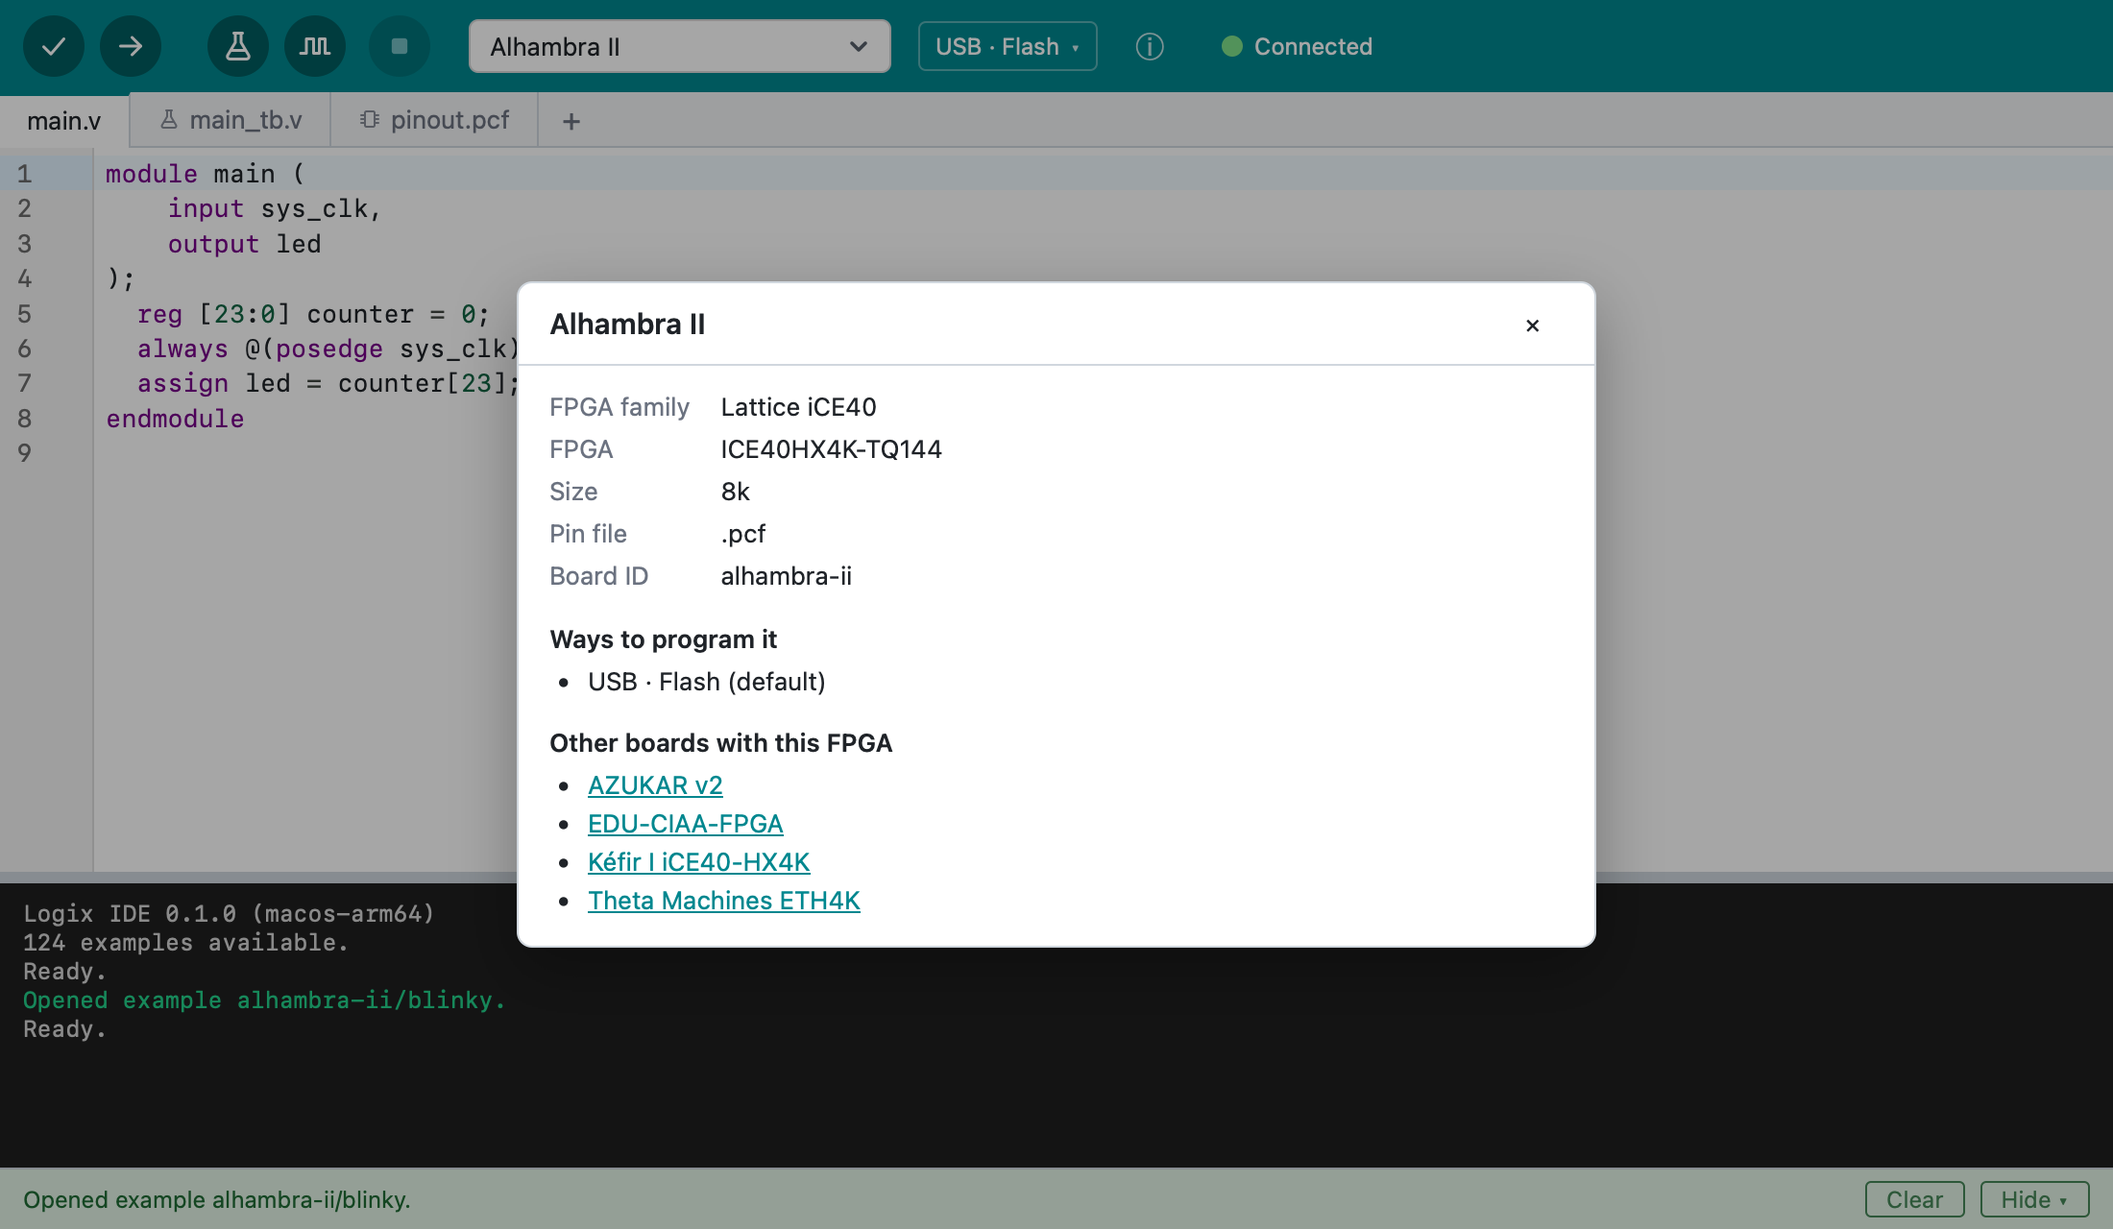
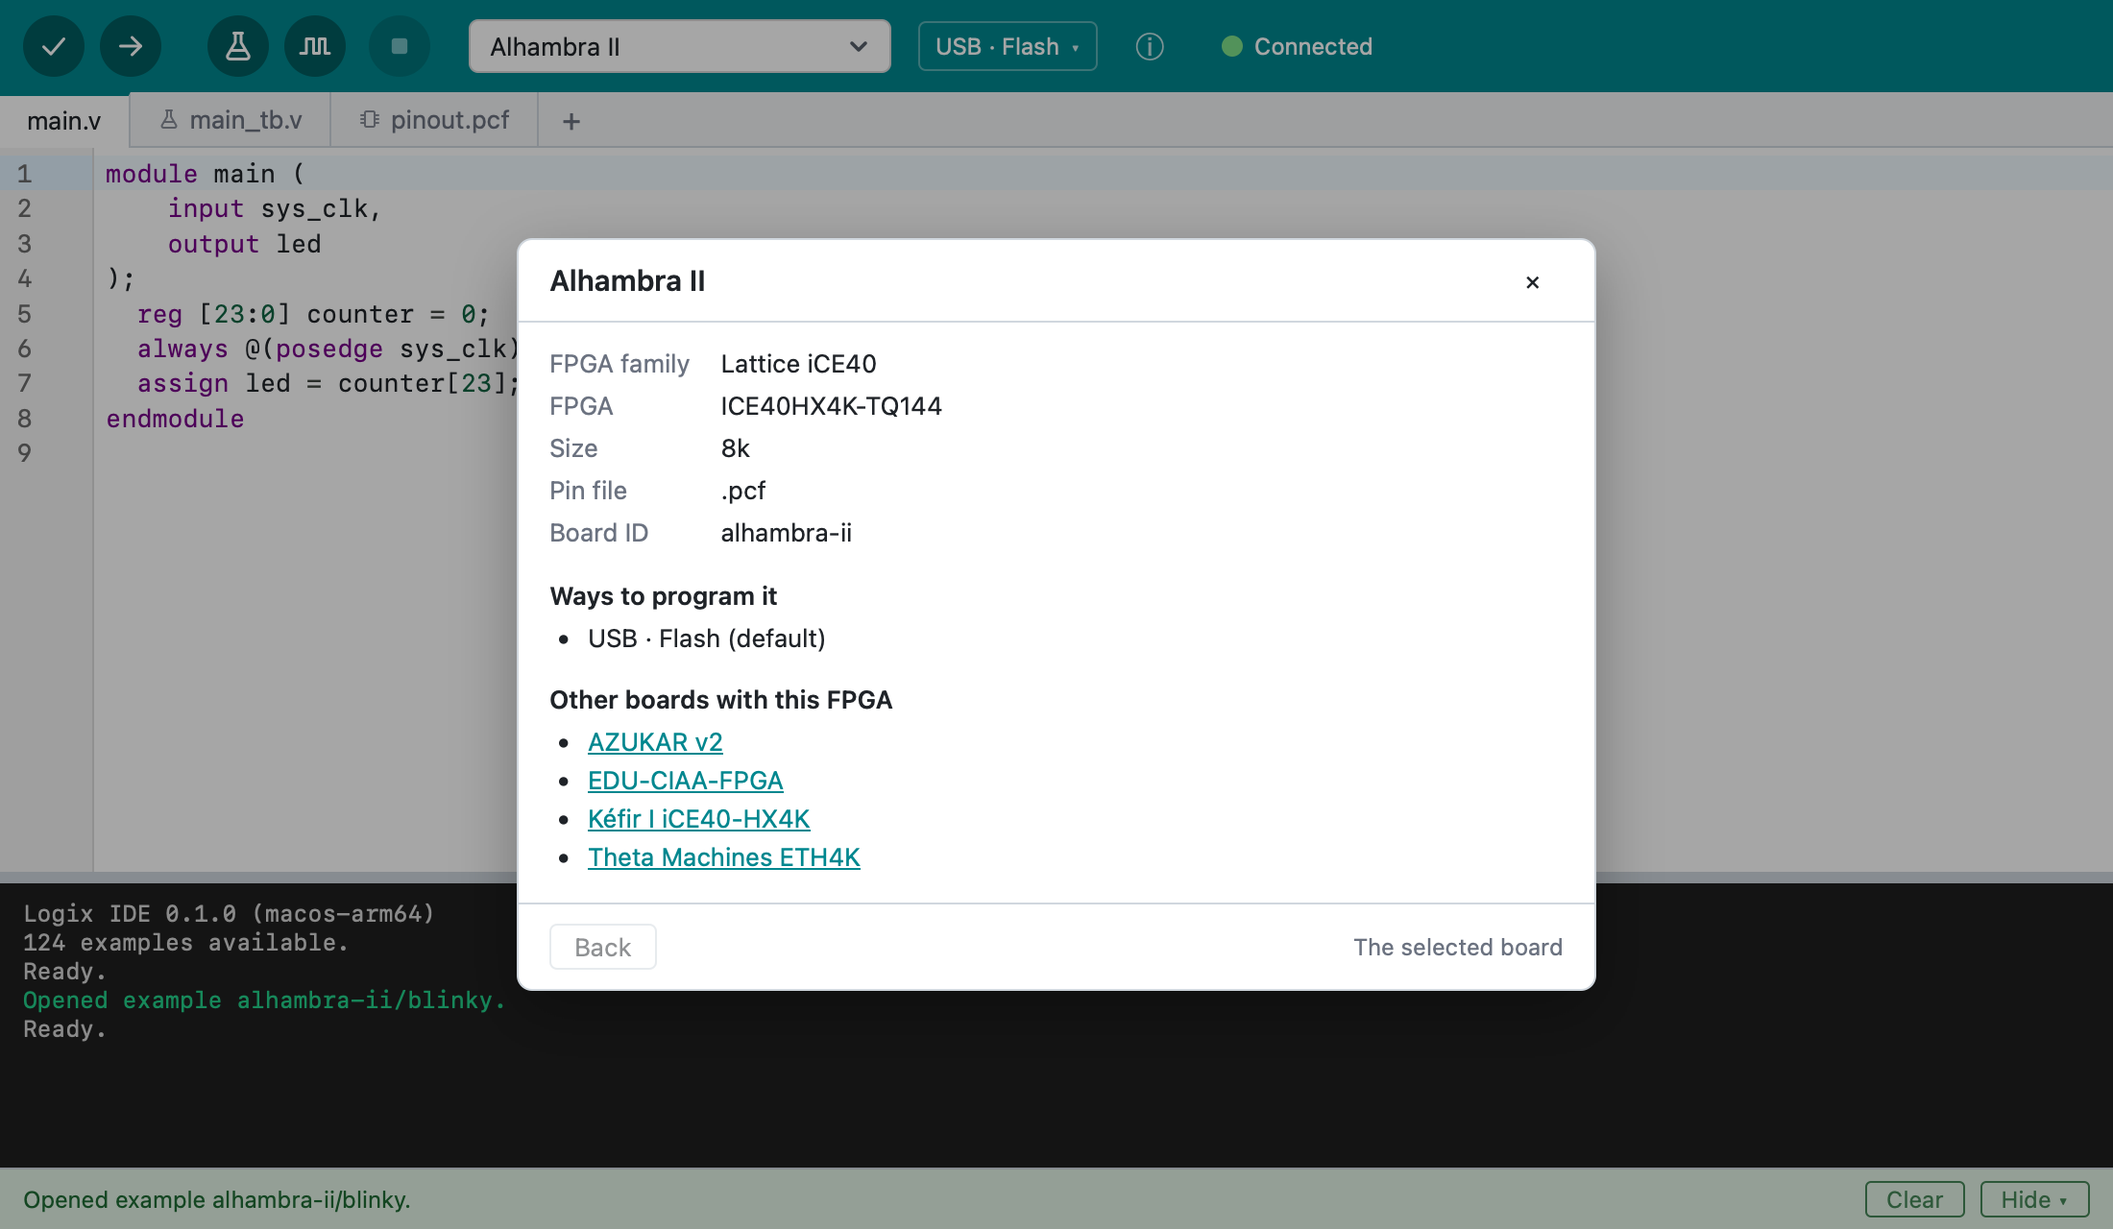
Board Info: browse boards with the same FPGA, Back and Select
A board in "Other boards with this FPGA" now shows its own info in the
same window instead of selecting it (the user's request). Back returns to
the board shown before; Select This Board selects the board shown.

Changed region(s): [[0.2473, 0.1875, 0.7727, 0.8125]]

diff --git a/ui/src/lib/BoardInfoDialog.svelte b/ui/src/lib/BoardInfoDialog.svelte
@@ -1,10 +1,12 @@
 <!--
   Tools > Board Info… (and the ⓘ next to the board): a board's FPGA, its pin
   file kind, the ways it can be programmed, and the other boards with the
-  same FPGA, which the user can select, such as to find a board like theirs.
-  Everything comes from Logix Engine's catalog (`get_catalog`).
+  same FPGA, such as to find a board like the user's. A board in that list
+  shows its own info (Back returns), and Select This Board picks the board
+  shown. Everything comes from Logix Engine's catalog (`get_catalog`).
 -->
 <script lang="ts">
+  import { untrack } from "svelte";
   import type { Board } from "./backend";
   import { sameFpgaBoards } from "./boards";
   import { summary } from "./variants";
@@ -16,18 +18,31 @@
     onPick,
     onClose,
   }: {
-    /** The board to describe. */
+    /** The board to describe first. */
     board: Board;
     /** Every board offered, for the boards with the same FPGA. */
     boards: Board[];
     /** The toolbar's board, marked in the lists. */
     selected: string | null;
-    /** A board's name was clicked: select that board. */
+    /** Select This Board: select the board shown. */
     onPick: (id: string) => void;
     onClose: () => void;
   } = $props();
 
-  const same = $derived(sameFpgaBoards(boards, board));
+  /** The boards shown, the current one last (Back goes to the one before). */
+  let shownIds = $state<string[]>(untrack(() => [board.id]));
+  const current = $derived(
+    boards.find((b) => b.id === shownIds[shownIds.length - 1]) ?? board,
+  );
+  const same = $derived(sameFpgaBoards(boards, current));
+
+  function show(id: string) {
+    shownIds = [...shownIds, id];
+  }
+
+  function back() {
+    if (shownIds.length > 1) shownIds = shownIds.slice(0, -1);
+  }
 
   function onKey(e: KeyboardEvent) {
     if (e.key === "Escape") {
@@ -51,35 +66,35 @@
     onclick={(e) => e.stopPropagation()}
   >
     <header>
-      <h2>{board.description}</h2>
+      <h2>{current.description}</h2>
       <span class="spacer"></span>
       <button class="close" title="Close" onclick={onClose}>✕</button>
     </header>
     <div class="body">
-      {#if board.custom}
+      {#if current.custom}
         <p class="muted">One of this project's own boards, from custom-boards.json.</p>
       {/if}
       <table>
         <tbody>
-          <tr><th scope="row">FPGA family</th><td>{board.archLabel}</td></tr>
-          {#if board.fpga}
-            <tr><th scope="row">FPGA</th><td>{board.fpga.partNumber}</td></tr>
-            {#if board.fpga.size}
-              <tr><th scope="row">Size</th><td>{board.fpga.size}</td></tr>
+          <tr><th scope="row">FPGA family</th><td>{current.archLabel}</td></tr>
+          {#if current.fpga}
+            <tr><th scope="row">FPGA</th><td>{current.fpga.partNumber}</td></tr>
+            {#if current.fpga.size}
+              <tr><th scope="row">Size</th><td>{current.fpga.size}</td></tr>
             {/if}
           {/if}
-          {#if board.pinExtension}
-            <tr><th scope="row">Pin file</th><td>.{board.pinExtension}</td></tr>
+          {#if current.pinExtension}
+            <tr><th scope="row">Pin file</th><td>.{current.pinExtension}</td></tr>
           {/if}
-          <tr><th scope="row">Board ID</th><td>{board.id}</td></tr>
+          <tr><th scope="row">Board ID</th><td>{current.id}</td></tr>
         </tbody>
       </table>
 
       <h3>Ways to program it</h3>
       <ul>
-        {#each board.configurations as c, i (i)}
+        {#each current.configurations as c, i (i)}
           <li>
-            {summary(board, c.when)}{i === 0 ? " (default)" : ""}{c.tested ? "" : " (not yet tried on a board)"}
+            {summary(current, c.when)}{i === 0 ? " (default)" : ""}{c.tested ? "" : " (not yet tried on a board)"}
             {#if c.userNotes}<span class="muted note">{c.userNotes}</span>{/if}
           </li>
         {/each}
@@ -92,7 +107,7 @@
         <ul>
           {#each same as b (b.id)}
             <li>
-              <button class="board-pick" title="Select the {b.description}" onclick={() => onPick(b.id)}
+              <button class="board-pick" title="Show the {b.description}" onclick={() => show(b.id)}
                 >{b.description}</button
               >{#if b.id === selected}{" "}<span class="muted">(selected)</span>{/if}
             </li>
@@ -100,6 +115,15 @@
         </ul>
       {/if}
     </div>
+    <footer>
+      <button onclick={back} disabled={shownIds.length < 2} title="The board shown before">Back</button>
+      <span class="spacer"></span>
+      {#if current.id === selected}
+        <span class="muted">The selected board</span>
+      {:else}
+        <button class="primary" onclick={() => onPick(current.id)}>Select This Board</button>
+      {/if}
+    </footer>
   </div>
 </div>
 
@@ -198,6 +222,22 @@
   }
   .note {
     display: block;
+  }
+  footer {
+    display: flex;
+    align-items: center;
+    gap: 8px;
+    padding: 10px 16px;
+    border-top: 1px solid var(--border);
+  }
+  .primary {
+    background: var(--accent, #00796b);
+    border-color: var(--accent, #00796b);
+    color: #fff;
+  }
+  button:disabled {
+    opacity: 0.5;
+    cursor: default;
   }
   .muted {
     color: var(--muted);

diff --git a/ui/e2e/app.e2e.ts b/ui/e2e/app.e2e.ts
@@ -880,8 +880,19 @@ test("Board Info shows the board's FPGA and the boards with the same FPGA", asyn
   await expect(info).toBeHidden();
   await menu(page, "board-info");
   await expect(info).toBeVisible();
-  // A board with the same FPGA selects it, as the board picker does.
+  await expect(info).toContainText("The selected board");
+  const back = info.getByRole("button", { name: "Back" });
+  await expect(back).toBeDisabled();
+  // A board with the same FPGA shows its own info; Back returns.
   await info.getByRole("button", { name: /^Kéfir I/ }).click();
+  await expect(info.getByRole("heading", { level: 2 })).toHaveText(/Kéfir I/);
+  await expect(info.getByRole("button", { name: "Alhambra II" })).toBeVisible();
+  await back.click();
+  await expect(info.getByRole("heading", { level: 2 })).toHaveText("Alhambra II");
+  await expect(back).toBeDisabled();
+  // Select This Board picks the board shown, as the board picker does.
+  await info.getByRole("button", { name: /^Kéfir I/ }).click();
+  await info.getByRole("button", { name: "Select This Board" }).click();
   await expect(info).toBeHidden();
   await page.getByRole("dialog").getByRole("button", { name: "Keep Current Files" }).click();
   await expect(boardButton(page)).toHaveText(/Kéfir I/);

diff --git a/CLAUDE.md b/CLAUDE.md
@@ -146,7 +146,7 @@ Don't run `npm run tauri build` locally; installers come from the GitHub workflo
 - **Upload's device** (the user's decision: the engine never picks a device, the host does): after the build, Upload calls `list_devices` with the build folder, which lists only the devices that fit the build's board and variant, strongest first (`build_match`). One: Upload programs it with `program_board`'s required `device` (no question asked, as before). None: a `connect_board` failure, or the unreachable device's fix (`pick_device` in `engine/task.rs`, unit-tested). Several: the outcome has action `select_device` and the candidates in `devices`; the status says "Choose the device to upload to." (info, not an error), and `ui/src/lib/DevicePicker.svelte` ("Upload to which device?", each device with its serial number and the match level in words, `matchLabel`: "Strong match", "Possible match", "Weak match") reruns Upload with the chosen `device` (the build is then up to date). The fake backend's `__fake.uploadDevices` sets the devices that fit (one Alhambra II by default) and `__fake.uploadedDevice` records the one used.
 - **Connected boards** (as in Arduino IDE 2's board selector; the status next to the picker says "Connected" for any fit, erring to the connected side since Upload checks (the user's decisions, 2026-11-05: "Possibly connected" read strangely right after programming the board), and its tooltip says only that a connected device may be the board (no cause); Tools > Connected Devices tells devices and their likely boards apart. The board picker has no groups from connected devices (the user's decision, 2026-11-06: the "Connected" groups were guesses and confusing; the picker has only "Recently used" and the architecture groups). "Not connected" stays: no device fits, which is what Upload sees): while the window has focus and nothing runs, the UI polls `connected_devices` every 3 s (and on focus). It runs the engine's `list_devices` once and reads its matches (`connected_devices` in `engine/devices.rs`): each connected device that fits a board (`id`, `name`, `serial`), with every board it may be, so the selected board's "Connected" label agrees with Upload, each with its `level`. Tools > Connected Devices counts weak boards; the engine decides which matches are weak, such as a USB chip that dozens of boards share (it moved there from the IDE's own `NAMED` and `MAX_GENERIC_MATCHES` rules). (Before, unsuggested boards were left out entirely: an Arty, "Digilent USB Device", matched the Basys3's product pattern, so it showed "Not connected" while Upload found it.) "Connected" / "Not connected" next to the board picker tells whether the selected board is plugged in; clicking it opens Tools > Connected Devices (the user's idea: "what is connected?" is the next question; a button styled as the label, its tooltip says so). The board is never switched automatically. Scans pause during tasks since Upload uses the device. The fake backend's `__fake.connected` sets the connected devices.
 - **The project's own boards** (`custom-boards.json`; the user's decisions, 2026-11-06: a separate JSON file, one file for zero, one or more boards, a map from board ID to definition like the engine's catalog, sent to the engine even when it has errors, which the engine reports at line and column like yosys errors; the engine's `docs/tool-api.md`, Board specification): board definitions in Logix Engine's custom board format, by board ID (each with `description`, `fpga_id` or `fpga`, and `variants` with their programmer, `args` and `usb` filter), written by the user or an AI agent; no editing UI. It's a project file shown as a tab (`project::CUSTOM_BOARDS_FILE`, `is_editable`; New File accepts that exact name and starts it as `{ }`; tab role `boards`), highlighted as JSON (the legacy-modes `json` mode in `Editor.svelte`), and Auto Format pretty-prints it in the UI (`formatJson`, two-space indents; the menu's `formattable` covers it); unsaved edits count, as for sources. **The IDE never parses it**: the engine reads it (`custom_boards_file`, an absolute path) and reports each problem (invalid JSON, a wrong or unknown field, a bad board ID, FPGA or variant field) as a diagnostic at line and column, which the IDE marks like build errors. Tasks send the copy in the prepared build folder (`run_task`, so problems are named `custom-boards.json`); the board list (`project_boards`, asked again 400 ms after the text stops changing), `connected_devices` and `scan_devices` get the editor's text (`customBoardsText`, null without the file), which the backend writes to a scratch file (`scratch_boards_file`: `~/.logix/boards/<hash of the text>/custom-boards.json`, the 4 newest kept, so concurrent calls never see each other's text) and maps the engine's diagnostics back to `custom-boards.json` (`BoardsProblem::from_error`). Its boards are listed first in their architecture's group in the board picker (`withProjectBoards` in `boards.ts`; one with a catalog board's ID replaces it, as in the engine); picking one never offers examples and isn't remembered as the last board (new projects don't have the file). A file with problems shows a banner with the engine's message (`custom-boards-error`, with Show File when another tab is open) and markers in its tab (`markCustomBoards`, replacing only that file's markers), and its boards are left out until it's fixed; device scans then leave its boards out; a task for one of its boards fails with the same problems marked (`boards_problem_outcome`), and a task for a catalog board gets them from the engine. The engine decides what a changed board means for builds (only the FPGA's build settings count).
-- **Board Info** (Tools > Board Info…, enabled when the toolbar has a known board, `MenuState.board`, and the ⓘ next to the board; the user's decision, 2026-11-06: an info window, with only a hover hint in the picker): `ui/src/lib/BoardInfoDialog.svelte` shows the board's FPGA family, part number and size (`Board.fpga`: `id`, `partNumber`, `size`, from the engine's `get_catalog` fpgas, or a custom board's own `fpga`; `engine/catalog.rs`), its pin file kind and ID, the ways to program it (each configuration's `summary`, the default first, "(not yet tried on a board)" when untested, with its notes), and the other boards with the same FPGA ID (`sameFpgaBoards` in `boards.ts`) as links that select the board, as the board picker does. Screenshot `board-info.png` (`docs.shots.ts`).
+- **Board Info** (Tools > Board Info…, enabled when the toolbar has a known board, `MenuState.board`, and the ⓘ next to the board; the user's decision, 2026-11-06: an info window, with only a hover hint in the picker): `ui/src/lib/BoardInfoDialog.svelte` shows the board's FPGA family, part number and size (`Board.fpga`: `id`, `partNumber`, `size`, from the engine's `get_catalog` fpgas, or a custom board's own `fpga`; `engine/catalog.rs`), its pin file kind and ID, the ways to program it (each configuration's `summary`, the default first, "(not yet tried on a board)" when untested, with its notes), and the other boards with the same FPGA ID (`sameFpgaBoards` in `boards.ts`) as links that show that board's info in the same window (the user's request: browse, then choose), with Back (the boards shown, `shownIds`) and Select This Board, which selects the board shown as the board picker does and closes the window ("The selected board" instead when it already is). Screenshot `board-info.png` (`docs.shots.ts`).
 - **Board variants** (the model is in the engine's `docs/requirements.md`, Boards and board variants): the engine's board definitions list `variants`, each with an `id` (such as `usb-ram`), its `connection` and `memory`, and how to program it; requests name one by ID (`board_variant`). The IDE keeps its own picker model (dimension values per project, possibly partial, `{}` for the default): `engine/catalog.rs` reads the engine's variants into `Configuration`s (`when` from `connection` and `memory`, `id` kept for the engine only), `variant_id` turns the project's choice into the ID sent to lint, build, test and simulate (the first variant with all the chosen values), and `variant_values` turns the IDs `list_devices` reports back into values for the device groups. every board has the engine's two standard dimensions, `connection` (`usb`, `bootloader`, an adapter such as `ft232h`, or `unspecified`) and `memory` (`flash`, `ram`); every board shows all its dimensions, even one with a single value (the user's decision: hiding single values was too opaque, e.g. that the Arty uploaded to RAM only). A board is its name; boards that differ only by USB adapter (FT2232H, FT232H, CMSIS-DAP, USB-Blaster: "adapter", not openFPGALoader's "cable", in the labels) or flash/RAM are one board with several variants, shown through the board's `dimensions` (`connection`, `memory`, each with labels and optional `help`); the first variant is the default ( flash wherever the board has it, the user's decision, so an upload stays at power-off unless RAM is picked; each with `tested` and optional `user_notes`). Each FPGA size is its own board (pins can differ), and all variants of a board use the same pin file, so examples (per board) and projects work with every variant. 32 boards have a choice today: iCESugar-Pro and ColorLight i5 (memory); the boards whose original commands upload to RAM, most Xilinx and ECP5 boards and the Tang Nano, also have an untested flash variant (engine catalog, 2026-11-04); ColorLight 5A-75E V7.1, ColorLight i9 v7.2 and FleaFPGA Ohm (connection and memory); ButterStick r1.0 (its USB bootloader writes flash, its JTAG adapters RAM). Still RAM only: the Zynq boards, the QMTECH XC7A100T and the ULX3S (reasons in the engine's `docs/requirements.md`). Separate per-cable and RAM boards were merged into these, since their examples were identical.
   - **Rules** (`ui/src/lib/variants.ts`, pure and unit-tested; as in the engine): a variant is dimension values; the first configuration with them is used, values the board doesn't have are ignored, `{}` is the default. A project stores `toStore`: `{}` for the default configuration, else the configuration's full values (`[variant]` table in `logix-ide.toml`, removed when empty; `project.rs`). Changing it marks the project unsaved (`WorkingProject.variant`/`savedVariant`); another board starts with `{}`; New Project takes the toolbar's variant; `lastVariant` is kept next to `lastBoard` (`set_last_board(board, variant)`, `last_variant`).
   - **Facts**: how the board is programmed and where the design went come from the engine: with live output, `program_board` sends `message` lines (`OutputKind::Message`, shown like output; unknown kinds too, `Other`) before programming ("Programming the RAM of the butterstick r1.0 through the FT232H adapter.", naming the board, with " (untested)" before the period for an untested configuration, then the configuration's note) and after success ("Programmed the flash of the Alhambra II: the design stays when the board is powered off." or RAM: lost). The IDE adds nothing of its own (moved to the engine, the user's decision, so every host says the same).

diff --git a/docs/using-logix.md b/docs/using-logix.md
@@ -95,7 +95,8 @@ devices and the boards each may be.
 
 The **ⓘ** next to the board (or **Tools > Board Info…**) shows the board's
 FPGA, its pin file kind and the ways to program it, and lists the other
-boards with the same FPGA: click one to select it. To find a board like
+boards with the same FPGA: click one to see its info (**Back** returns),
+and **Select This Board** to select the board shown. To find a board like
 yours, you can also type its FPGA in the board list's search, such as
 `up5k` or `xc7a35t`, and hover over a board to see its FPGA.
 
